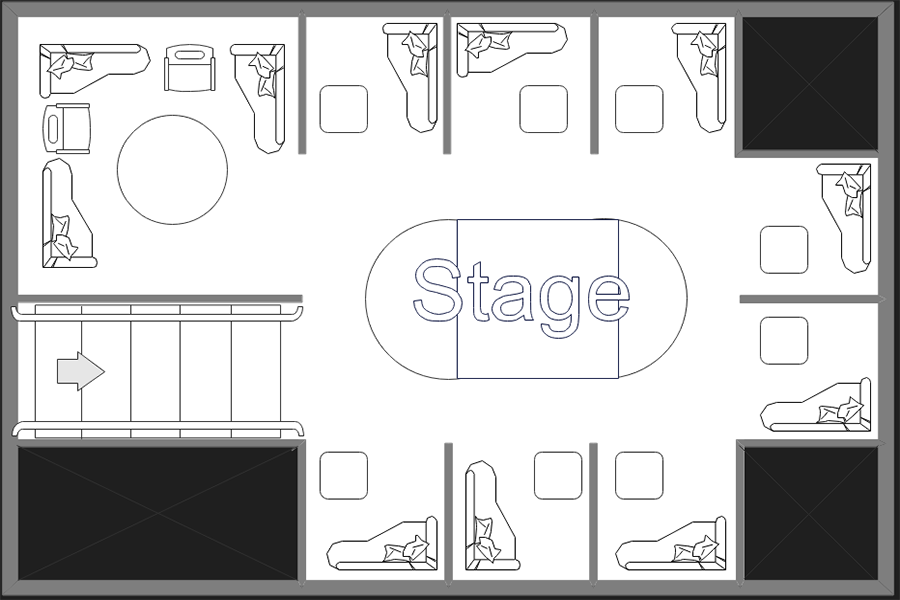
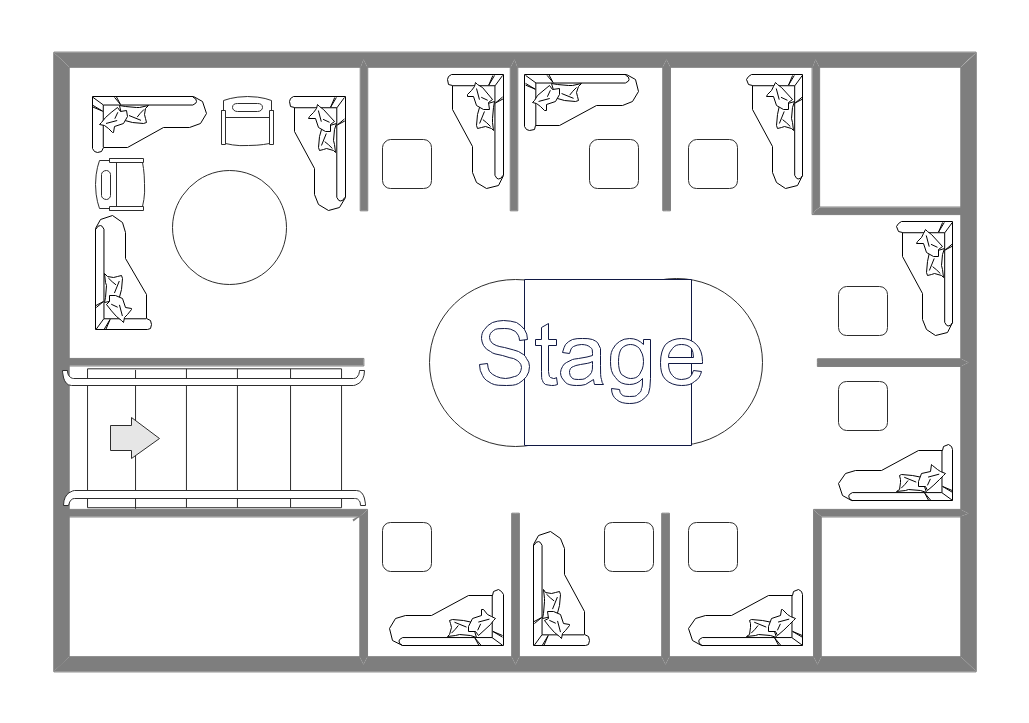
Update new grounfloor schematics

diff --git a/client/src/App.js b/client/src/App.js
@@ -7,8 +7,8 @@ import dbTools_client from './dbTools_client';
 import Axios from "axios";
 
 //BACKEND_PLACEHOLDER
-import ground from './assets/schematics/ground.png';
-import basement from './assets/schematics/basement.png';
+import ground from './assets/schematics/ground.jpg';
+import basement from './assets/schematics/basement.jpg';
 
 function App() {
 

diff --git a/client/src/dbTools_client.js b/client/src/dbTools_client.js
@@ -2,7 +2,7 @@ import Axios from "axios";
 
 //`https://${document.location.hostname}`;
 //'http://localhost:3001';
-const baseUrl = `https://${document.location.hostname}`;
+const baseUrl = 'http://localhost:3001';
 
 const menu = {
     endpoint: "/menu",
